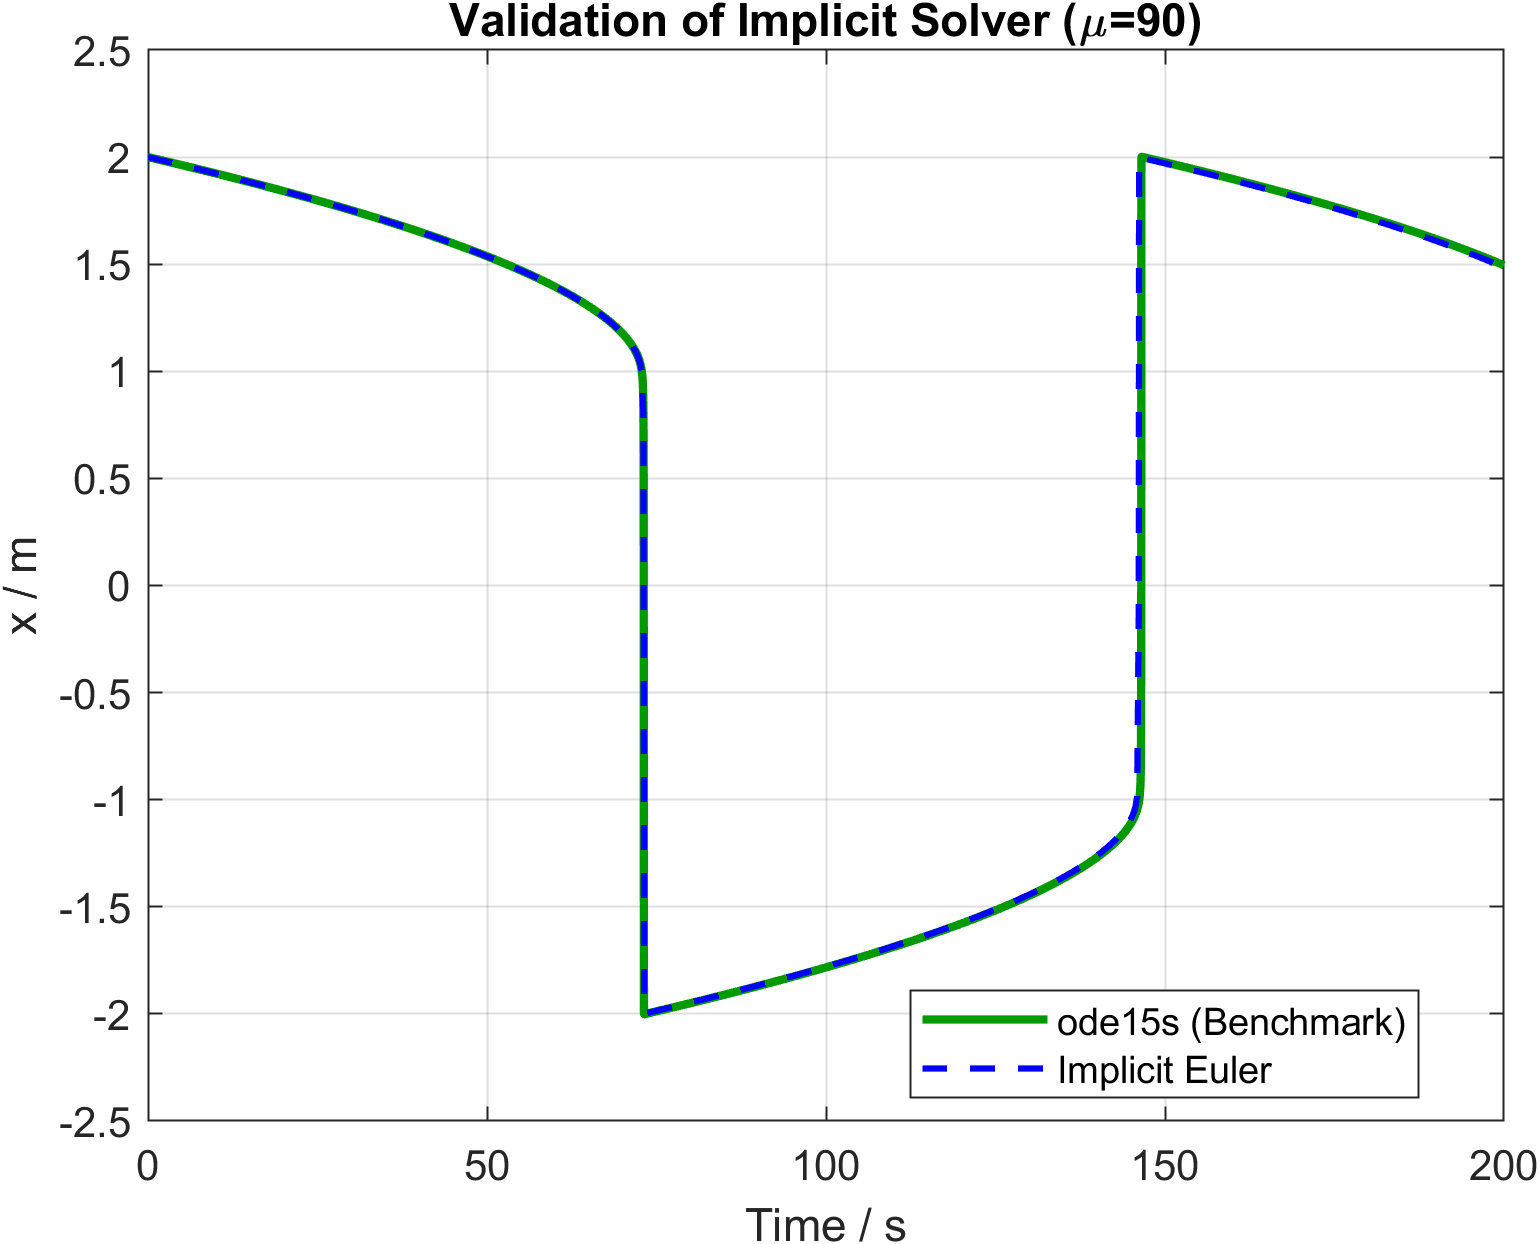
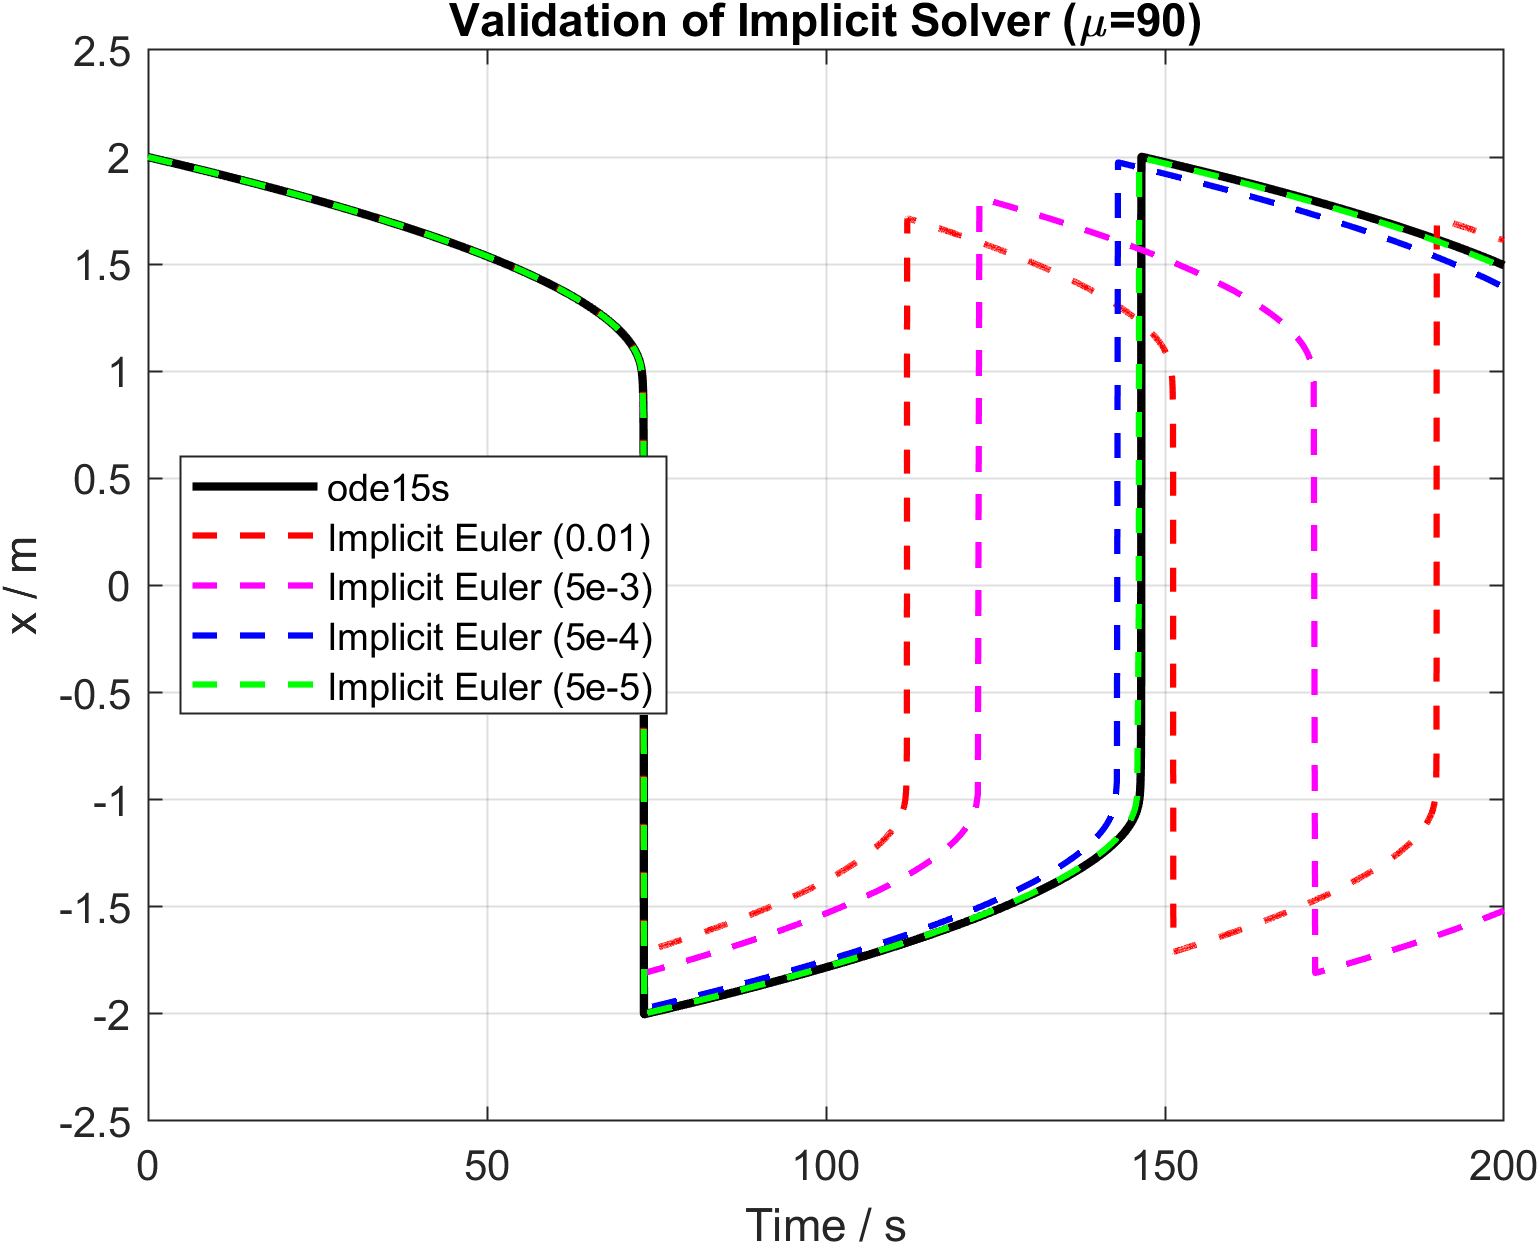
push

diff --git a/stiff_plots.m b/stiff_plots.m
@@ -32,12 +32,22 @@ hold off;
 % plot 2
 
 mu_stiff = 90.0;   % High damping = Stiff
-dt = 0.00005;         % Too large for RK4, fine for Implicit
+dt1 = 0.01;
+dt2 = 0.005;
+dt3 = 0.001;
+dt4 = 0.0005;
+dt5 = 0.0001;
+dt6 = 0.00005;         % Too large for RK4, fine for Implicit
 T_stiff = 200;      % Longer time needed for high mu period (~19s)
 y0 = [2.0; 0];     % Start on cycle
 
 disp('Running Implicit Euler (Stiff)...');
-[y_IE, t_IE] = run_IE(0, y0, dt, mu_stiff, T_stiff);
+[y_IE1, t_IE1] = run_IE(0, y0, dt1, mu_stiff, T_stiff);
+[y_IE2, t_IE2] = run_IE(0, y0, dt2, mu_stiff, T_stiff);
+[y_IE3, t_IE3] = run_IE(0, y0, dt3, mu_stiff, T_stiff);
+[y_IE4, t_IE4] = run_IE(0, y0, dt4, mu_stiff, T_stiff);
+[y_IE5, t_IE5] = run_IE(0, y0, dt5, mu_stiff, T_stiff);
+[y_IE6, t_IE6] = run_IE(0, y0, dt6, mu_stiff, T_stiff);
 
 disp('Running Benchmark (ode15s)...');
 opts = odeset('RelTol', 1e-6, 'AbsTol', 1e-9);
@@ -48,18 +58,53 @@ figure('Name', 'Q4_Validation', 'Color', 'w');
 hold on; grid on; box on;
 
 % Plot Benchmark (ode15s)
-plot(t_ref, y_ref(1,:), 'g-', 'LineWidth', 2.0, 'Color', [0 0.6 0], 'DisplayName', 'ode15s (Benchmark)');
+plot(t_ref, y_ref(1,:), 'k-', 'LineWidth', 2.0, 'DisplayName', 'ode15s');
 
 % Plot Implicit Euler
-plot(t_IE, y_IE(1,:), 'b--', 'LineWidth', 1.5, 'DisplayName', 'Implicit Euler');
+plot(t_IE1, y_IE1(1,:), 'r--', 'LineWidth', 1.5, 'DisplayName', 'Implicit Euler (0.01)');
+plot(t_IE2, y_IE2(1,:), 'm--', 'LineWidth', 1.5, 'DisplayName', 'Implicit Euler (5e-3)');
+plot(t_IE4, y_IE4(1,:), 'b--', 'LineWidth', 1.5, 'DisplayName', 'Implicit Euler (5e-4)');
+plot(t_IE6, y_IE6(1,:), 'g--', 'LineWidth', 1.5, 'DisplayName', 'Implicit Euler (5e-5)');
+
+y_true_IE1  = interp1(t_ref, y_ref(1,:), t_IE1, 'spline');
+y_true_IE2  = interp1(t_ref, y_ref(1,:), t_IE2, 'spline');
+y_true_IE3  = interp1(t_ref, y_ref(1,:), t_IE3, 'spline');
+y_true_IE4  = interp1(t_ref, y_ref(1,:), t_IE4, 'spline');
+y_true_IE5  = interp1(t_ref, y_ref(1,:), t_IE5, 'spline');
+y_true_IE6  = interp1(t_ref, y_ref(1,:), t_IE6, 'spline');
+
+err_IE1 = mean(abs(y_IE1(1,:) - y_true_IE1));
+err_IE2 = mean(abs(y_IE2(1,:) - y_true_IE2));
+err_IE3 = mean(abs(y_IE3(1,:) - y_true_IE3));
+err_IE4 = mean(abs(y_IE4(1,:) - y_true_IE4));
+err_IE5 = mean(abs(y_IE5(1,:) - y_true_IE5));
+err_IE6 = mean(abs(y_IE6(1,:) - y_true_IE6));
+
+errvec = [err_IE1, err_IE2, err_IE3, err_IE4, err_IE5, err_IE6];
+dtvec = [dt1, dt2, dt3, dt4, dt5, dt6];
 
 xlabel('Time / s');
 ylabel('x / m');
 title(['Validation of Implicit Solver (\mu=' num2str(mu_stiff) ')']);
-legend('Location', 'best');
+legend('Location', 'west');
 hold off;
+
+figure('Name', 'Q4_Convergence_Fixed', 'Color', 'w');
+
+loglog(dtvec, errvec, 'ro-', 'LineWidth', 1.5, 'MarkerFaceColor', 'r', 'DisplayName', 'Implicit Euler Error');
+hold on; grid on; box on;
+ref_line = errvec(end) * (dtvec / dtvec(end)).^1; 
+loglog(dtvec, ref_line, 'k--', 'LineWidth', 1.0, 'DisplayName', 'O(\Delta t) Reference');
+
+% 3. Correct Labels
+xlabel('\Delta t / s'); % Changed from "Time"
+ylabel('Mean Absolute Error / m');
+title(['Convergence of Implicit Euler (Stiff \mu=' num2str(mu_stiff) ')']);
+legend('Location', 'northwest');
 
 exportgraphics(figure(1), 'stiff_demo.png', 'Resolution', 300);
 
 % Save Time Series Plot
 exportgraphics(figure(2), 'implicit_validation.png', 'Resolution', 300);
+
+exportgraphics(figure(3), 'timestep_comparison.png', 'Resolution', 300);
